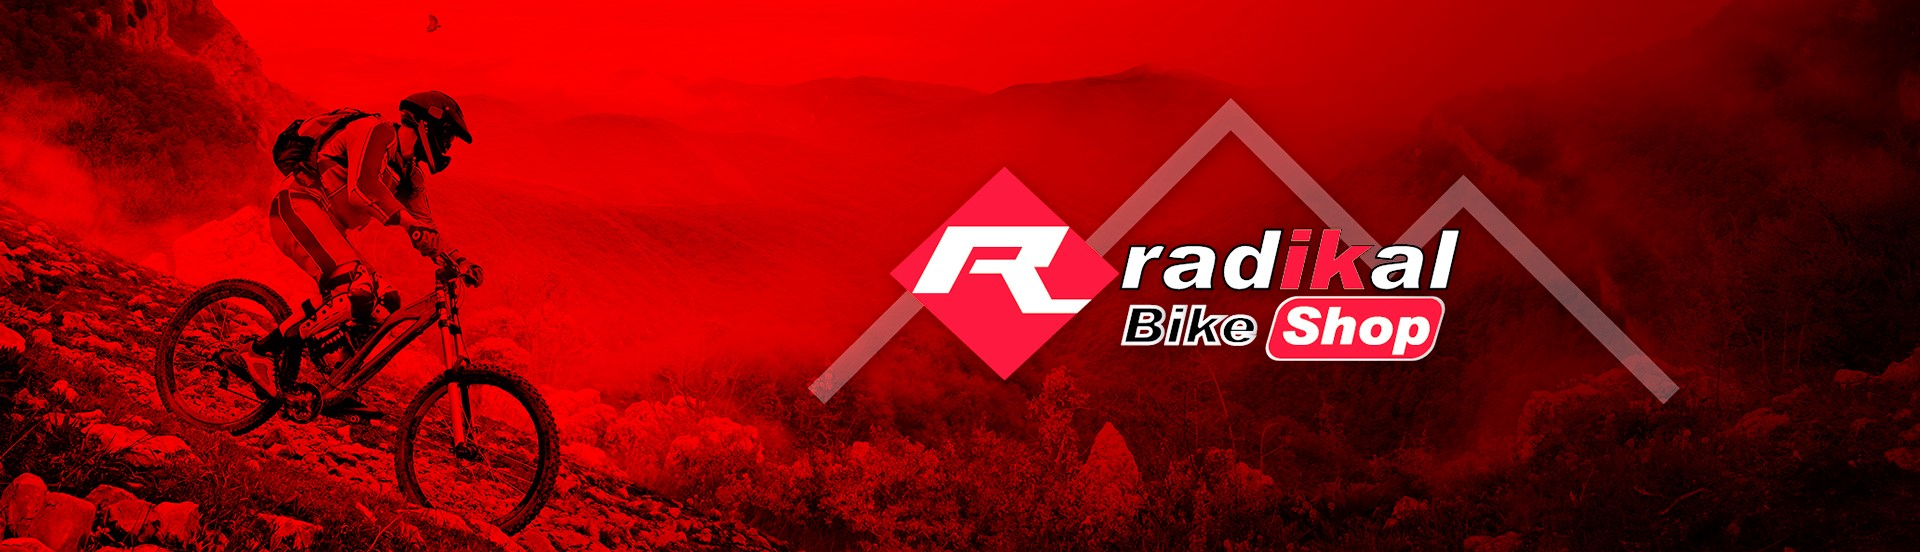
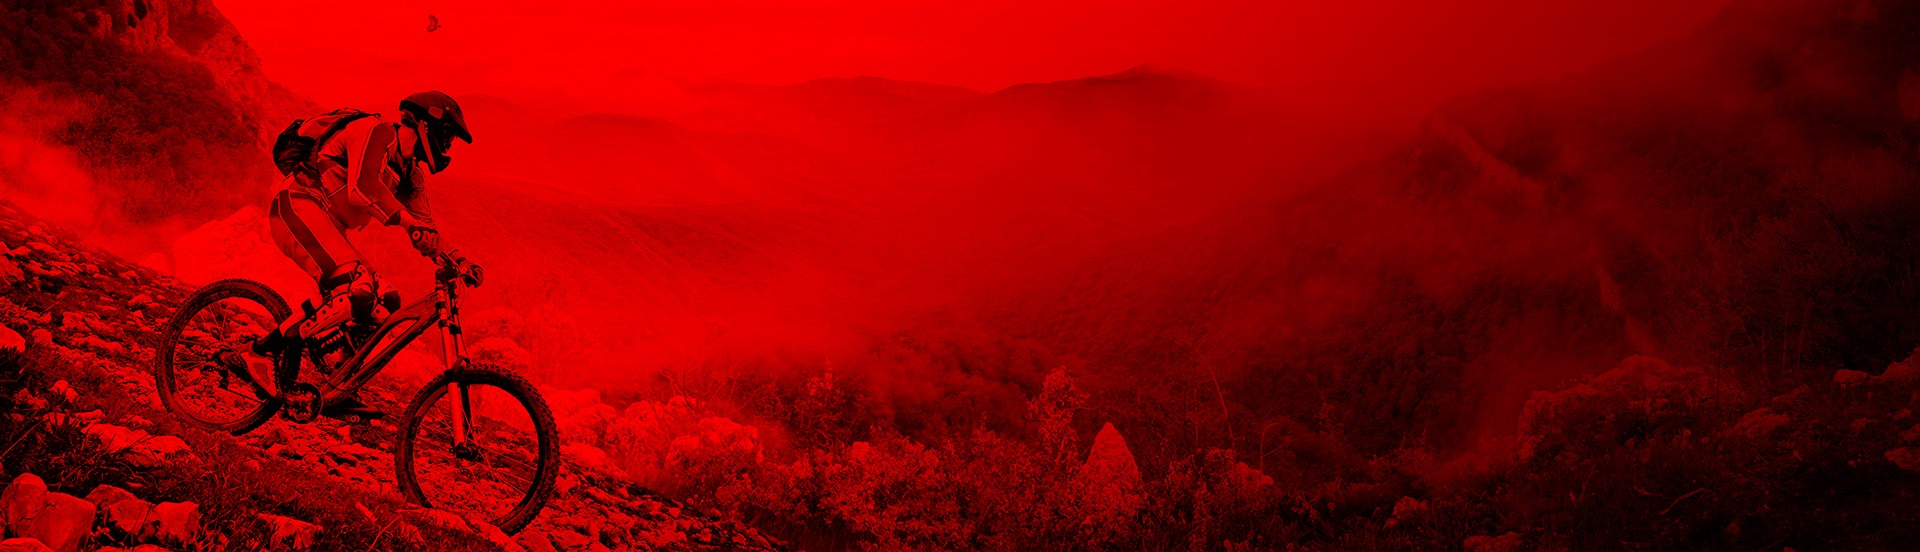
se cambio la maldita imagen

Changed region(s): [[0.4062, 0.1848, 0.875, 0.7391]]

diff --git a/radikal.html b/radikal.html
@@ -45,7 +45,7 @@
 			<video class="bg-video background-image text-right col-sm-6 col-md-offset-6" autoplay id="bgvid">
 			    <source src="public/uploads/video/radikal.mp4" type="video/mp4">
 			</video>
-			<div id="video-image"class="background-image-radikal layer-red" style="background-image: url('public/image/image-radikal.jpg')">
+			<div id="video-image"class="background-image-radikal" style="background-image: url('public/image/image-radikal.jpg')">
 				<img id="image-radikal" src="public/image/radikal.svg" alt="">
 
 			</div>

diff --git a/resources/assets/sass/molecules/_blocks.scss b/resources/assets/sass/molecules/_blocks.scss
@@ -94,7 +94,6 @@
 				transition: all 0.2s ease-in-out;
 			}
 			&:hover .image {
-				background: -moz-radial-gradient(circle at 250px 100px, transparent 50px, #ed282f 150px);
 				transition: all 0.2s ease-in-out;
 			}
 			.image {
@@ -247,11 +246,6 @@
 	#video-image {
 		display: none;
 		transition: all 1s ease-in-out;
-	}
-	.layer-red {
-		background-blend-mode: multiply;
-    	background-color: $secundary-color;
-    	display: none;
 	}
 }
 video#bgvid { 
